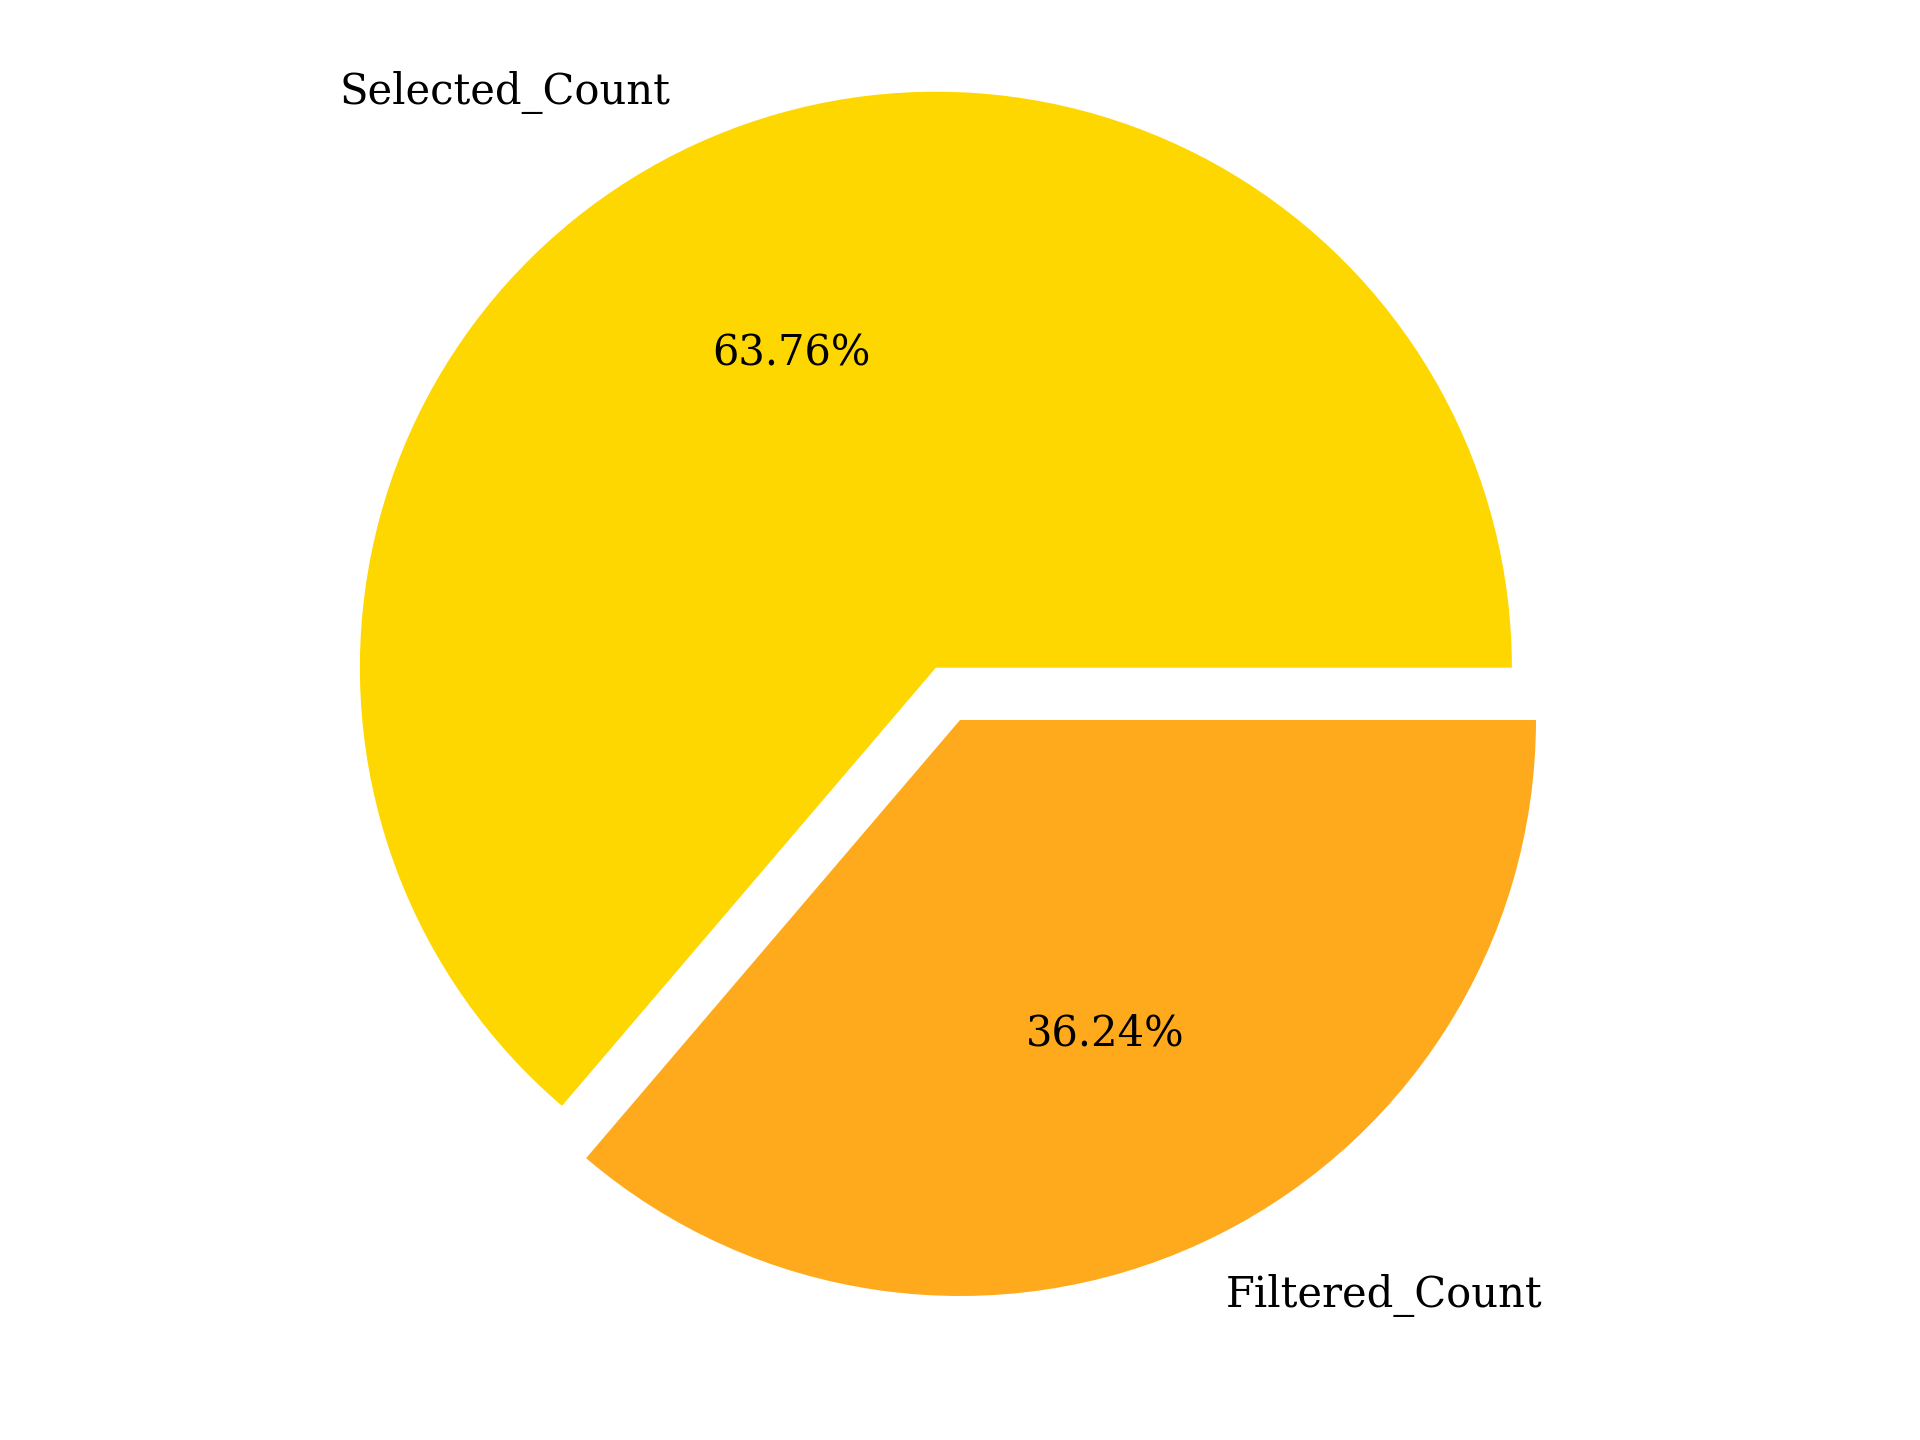
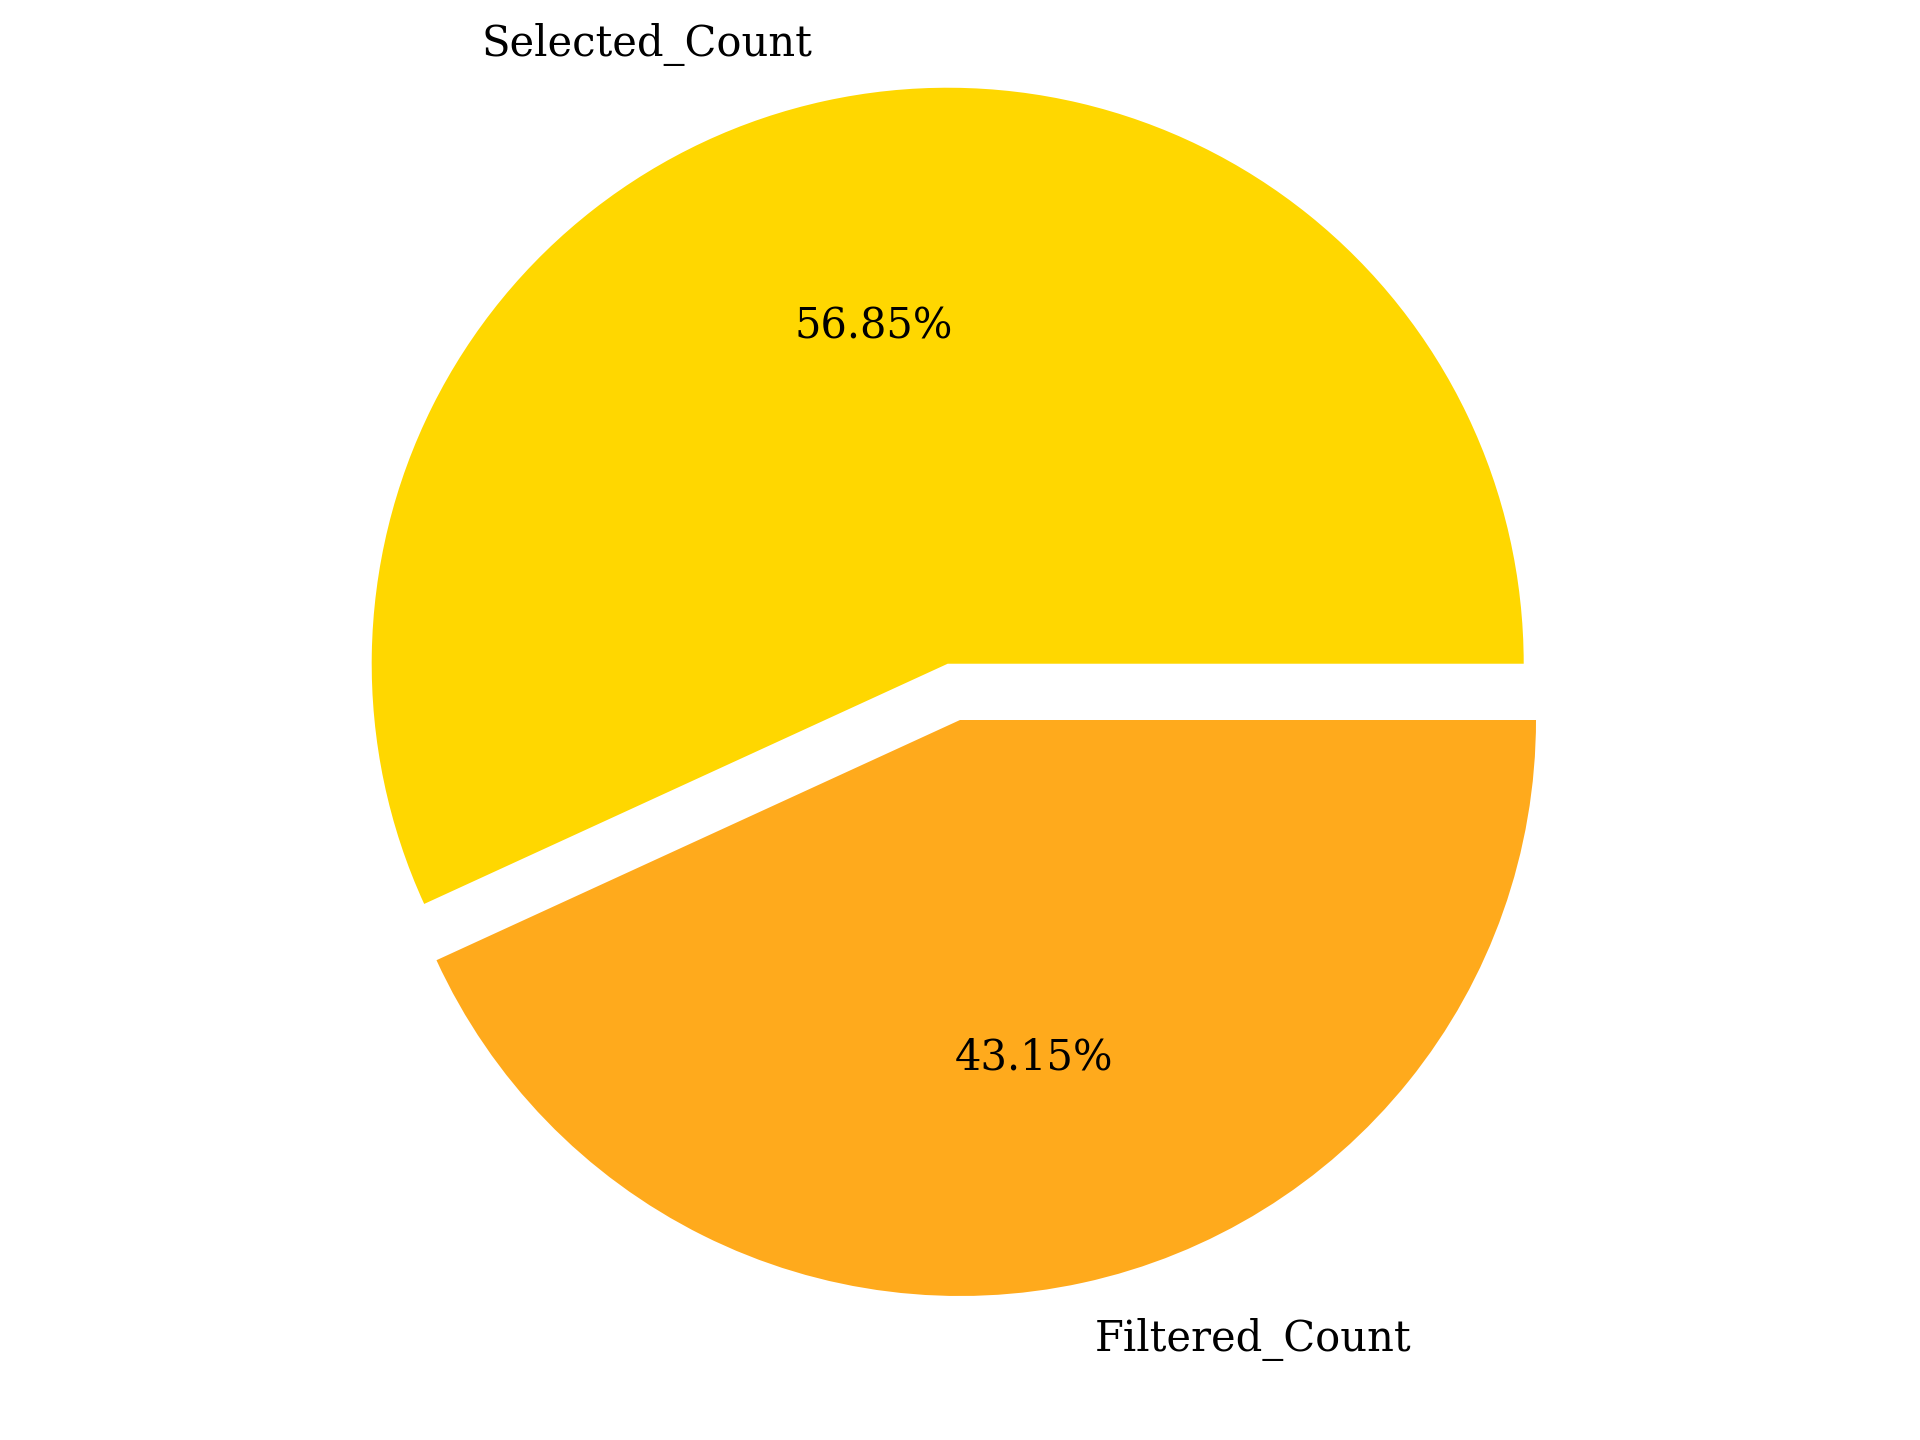
Adding modified code and plots.

diff --git a/Read_Depth/Strelka/Background_Files/Code.py b/Read_Depth/Strelka/Background_Files/Code.py
@@ -238,8 +238,11 @@ Count = len(Second['Third_Strelka_Normal'].index)
 print('Selected number of selected reads')
 print(Count)
 
+# Filtered reads
+Toll = Counts - Count
+
 # Converting the values to a list
-a1 = [Counts, Count]
+a1 = [Count, Toll]
 
 # Getting plots
 fig = plt.figure()
